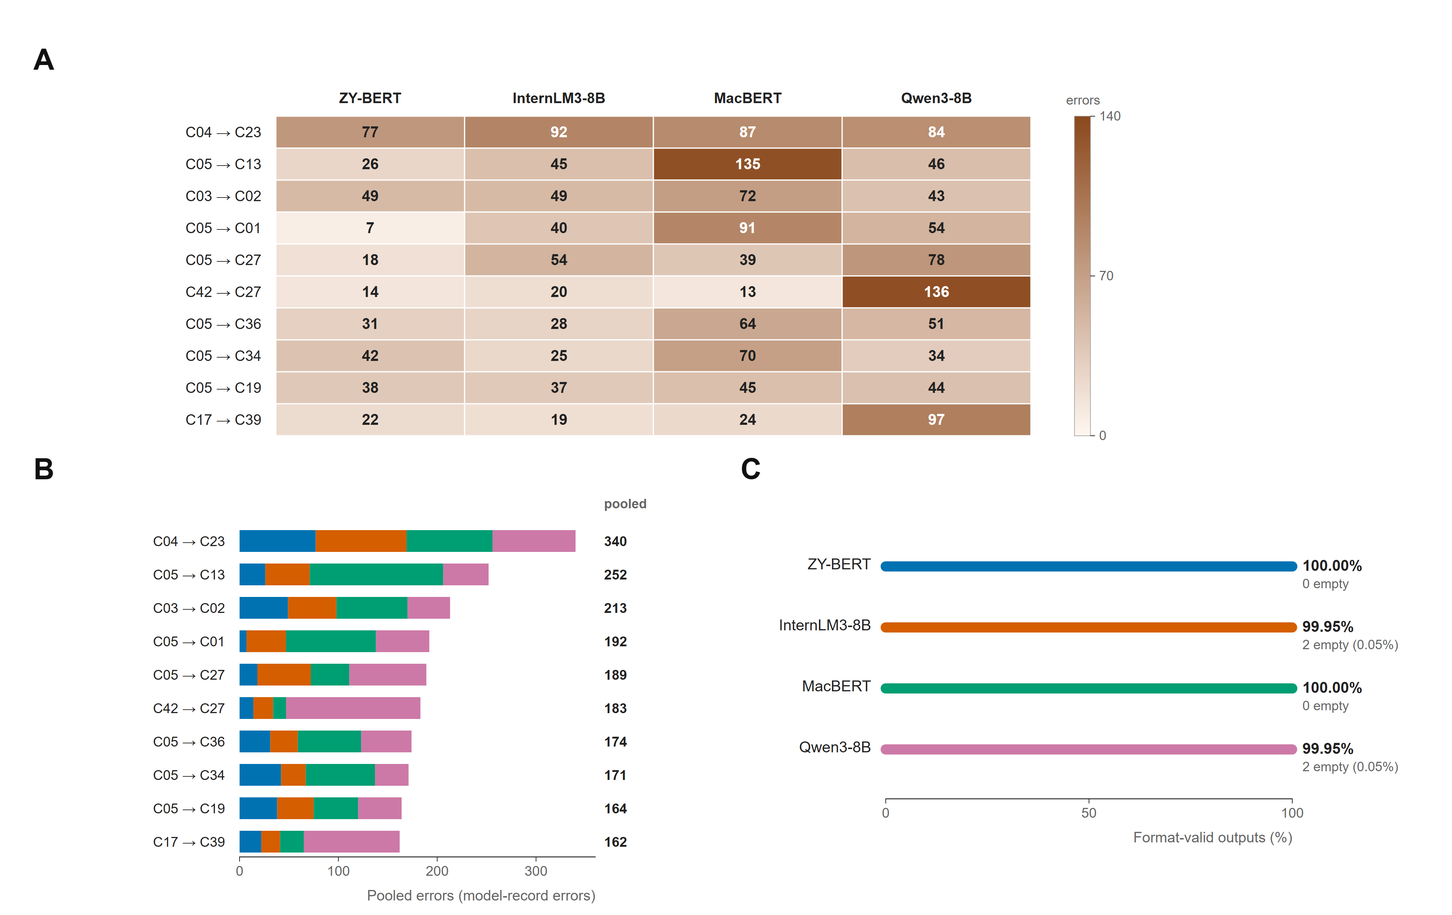
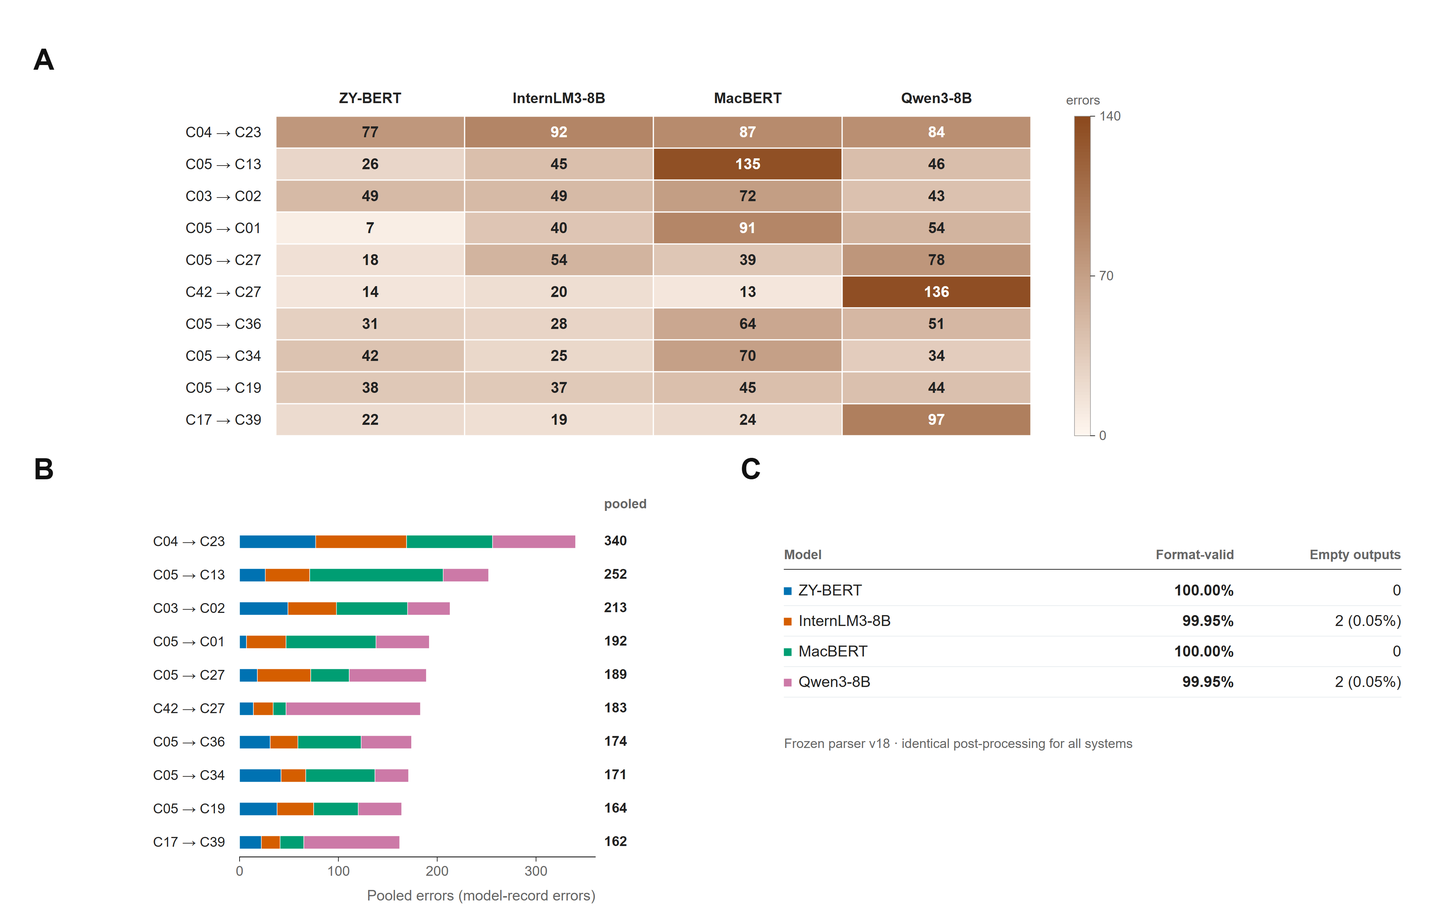
Figure 8: replace the flat validity bars with a per-system listing
Panel C now lists format-valid percentage and empty outputs for the four
systems as a plain ruled table, and panel B uses thinner stacked bars.
This removes the dashboard-like progress bars without changing any value.

diff --git a/figures_py/Figure8.html b/figures_py/Figure8.html
@@ -205,65 +205,65 @@
 <text x="1492" y="144" font-family="Arial, Helvetica, sans-serif" font-size="18" font-weight="400" fill="#666666" text-anchor="middle">errors</text>
 <text x="46" y="660" font-family="Arial, Helvetica, sans-serif" font-size="40" font-weight="700" fill="#111111" text-anchor="start">B</text>
 <text x="310" y="752" font-family="Arial, Helvetica, sans-serif" font-size="19" font-weight="400" fill="#222222" text-anchor="end">C04 → C23</text>
-<rect x="330" y="730" width="104.80555555555556" height="30" rx="0" fill="#0072B2" stroke="none" stroke-width="0" opacity="1"/>
-<rect x="434.80555555555554" y="730" width="125.22222222222223" height="30" rx="0" fill="#D55E00" stroke="none" stroke-width="0" opacity="1"/>
-<rect x="560.0277777777778" y="730" width="118.41666666666667" height="30" rx="0" fill="#009E73" stroke="none" stroke-width="0" opacity="1"/>
-<rect x="678.4444444444445" y="730" width="114.33333333333333" height="30" rx="0" fill="#CC79A7" stroke="none" stroke-width="0" opacity="1"/>
-<text x="832" y="752" font-family="Arial, Helvetica, sans-serif" font-size="19" font-weight="700" fill="#222222" text-anchor="start">340</text>
+<rect x="330" y="737" width="104.80555555555556" height="18" rx="0" fill="#0072B2" stroke="#FFFFFF" stroke-width="0.7" opacity="1"/>
+<rect x="434.80555555555554" y="737" width="125.22222222222223" height="18" rx="0" fill="#D55E00" stroke="#FFFFFF" stroke-width="0.7" opacity="1"/>
+<rect x="560.0277777777778" y="737" width="118.41666666666667" height="18" rx="0" fill="#009E73" stroke="#FFFFFF" stroke-width="0.7" opacity="1"/>
+<rect x="678.4444444444445" y="737" width="114.33333333333333" height="18" rx="0" fill="#CC79A7" stroke="#FFFFFF" stroke-width="0.7" opacity="1"/>
+<text x="832" y="751" font-family="Arial, Helvetica, sans-serif" font-size="19" font-weight="700" fill="#222222" text-anchor="start">340</text>
 <text x="310" y="798" font-family="Arial, Helvetica, sans-serif" font-size="19" font-weight="400" fill="#222222" text-anchor="end">C05 → C13</text>
-<rect x="330" y="776" width="35.388888888888886" height="30" rx="0" fill="#0072B2" stroke="none" stroke-width="0" opacity="1"/>
-<rect x="365.3888888888889" y="776" width="61.25" height="30" rx="0" fill="#D55E00" stroke="none" stroke-width="0" opacity="1"/>
-<rect x="426.6388888888889" y="776" width="183.75" height="30" rx="0" fill="#009E73" stroke="none" stroke-width="0" opacity="1"/>
-<rect x="610.3888888888889" y="776" width="62.611111111111114" height="30" rx="0" fill="#CC79A7" stroke="none" stroke-width="0" opacity="1"/>
-<text x="832" y="798" font-family="Arial, Helvetica, sans-serif" font-size="19" font-weight="700" fill="#222222" text-anchor="start">252</text>
+<rect x="330" y="783" width="35.388888888888886" height="18" rx="0" fill="#0072B2" stroke="#FFFFFF" stroke-width="0.7" opacity="1"/>
+<rect x="365.3888888888889" y="783" width="61.25" height="18" rx="0" fill="#D55E00" stroke="#FFFFFF" stroke-width="0.7" opacity="1"/>
+<rect x="426.6388888888889" y="783" width="183.75" height="18" rx="0" fill="#009E73" stroke="#FFFFFF" stroke-width="0.7" opacity="1"/>
+<rect x="610.3888888888889" y="783" width="62.611111111111114" height="18" rx="0" fill="#CC79A7" stroke="#FFFFFF" stroke-width="0.7" opacity="1"/>
+<text x="832" y="797" font-family="Arial, Helvetica, sans-serif" font-size="19" font-weight="700" fill="#222222" text-anchor="start">252</text>
 <text x="310" y="844" font-family="Arial, Helvetica, sans-serif" font-size="19" font-weight="400" fill="#222222" text-anchor="end">C03 → C02</text>
-<rect x="330" y="822" width="66.69444444444444" height="30" rx="0" fill="#0072B2" stroke="none" stroke-width="0" opacity="1"/>
-<rect x="396.69444444444446" y="822" width="66.69444444444444" height="30" rx="0" fill="#D55E00" stroke="none" stroke-width="0" opacity="1"/>
-<rect x="463.3888888888889" y="822" width="98.0" height="30" rx="0" fill="#009E73" stroke="none" stroke-width="0" opacity="1"/>
-<rect x="561.3888888888889" y="822" width="58.52777777777778" height="30" rx="0" fill="#CC79A7" stroke="none" stroke-width="0" opacity="1"/>
-<text x="832" y="844" font-family="Arial, Helvetica, sans-serif" font-size="19" font-weight="700" fill="#222222" text-anchor="start">213</text>
+<rect x="330" y="829" width="66.69444444444444" height="18" rx="0" fill="#0072B2" stroke="#FFFFFF" stroke-width="0.7" opacity="1"/>
+<rect x="396.69444444444446" y="829" width="66.69444444444444" height="18" rx="0" fill="#D55E00" stroke="#FFFFFF" stroke-width="0.7" opacity="1"/>
+<rect x="463.3888888888889" y="829" width="98.0" height="18" rx="0" fill="#009E73" stroke="#FFFFFF" stroke-width="0.7" opacity="1"/>
+<rect x="561.3888888888889" y="829" width="58.52777777777778" height="18" rx="0" fill="#CC79A7" stroke="#FFFFFF" stroke-width="0.7" opacity="1"/>
+<text x="832" y="843" font-family="Arial, Helvetica, sans-serif" font-size="19" font-weight="700" fill="#222222" text-anchor="start">213</text>
 <text x="310" y="890" font-family="Arial, Helvetica, sans-serif" font-size="19" font-weight="400" fill="#222222" text-anchor="end">C05 → C01</text>
-<rect x="330" y="868" width="9.527777777777779" height="30" rx="0" fill="#0072B2" stroke="none" stroke-width="0" opacity="1"/>
-<rect x="339.52777777777777" y="868" width="54.44444444444444" height="30" rx="0" fill="#D55E00" stroke="none" stroke-width="0" opacity="1"/>
-<rect x="393.97222222222223" y="868" width="123.86111111111111" height="30" rx="0" fill="#009E73" stroke="none" stroke-width="0" opacity="1"/>
-<rect x="517.8333333333334" y="868" width="73.5" height="30" rx="0" fill="#CC79A7" stroke="none" stroke-width="0" opacity="1"/>
-<text x="832" y="890" font-family="Arial, Helvetica, sans-serif" font-size="19" font-weight="700" fill="#222222" text-anchor="start">192</text>
+<rect x="330" y="875" width="9.527777777777779" height="18" rx="0" fill="#0072B2" stroke="#FFFFFF" stroke-width="0.7" opacity="1"/>
+<rect x="339.52777777777777" y="875" width="54.44444444444444" height="18" rx="0" fill="#D55E00" stroke="#FFFFFF" stroke-width="0.7" opacity="1"/>
+<rect x="393.97222222222223" y="875" width="123.86111111111111" height="18" rx="0" fill="#009E73" stroke="#FFFFFF" stroke-width="0.7" opacity="1"/>
+<rect x="517.8333333333334" y="875" width="73.5" height="18" rx="0" fill="#CC79A7" stroke="#FFFFFF" stroke-width="0.7" opacity="1"/>
+<text x="832" y="889" font-family="Arial, Helvetica, sans-serif" font-size="19" font-weight="700" fill="#222222" text-anchor="start">192</text>
 <text x="310" y="936" font-family="Arial, Helvetica, sans-serif" font-size="19" font-weight="400" fill="#222222" text-anchor="end">C05 → C27</text>
-<rect x="330" y="914" width="24.5" height="30" rx="0" fill="#0072B2" stroke="none" stroke-width="0" opacity="1"/>
-<rect x="354.5" y="914" width="73.5" height="30" rx="0" fill="#D55E00" stroke="none" stroke-width="0" opacity="1"/>
-<rect x="428.0" y="914" width="53.083333333333336" height="30" rx="0" fill="#009E73" stroke="none" stroke-width="0" opacity="1"/>
-<rect x="481.0833333333333" y="914" width="106.16666666666667" height="30" rx="0" fill="#CC79A7" stroke="none" stroke-width="0" opacity="1"/>
-<text x="832" y="936" font-family="Arial, Helvetica, sans-serif" font-size="19" font-weight="700" fill="#222222" text-anchor="start">189</text>
+<rect x="330" y="921" width="24.5" height="18" rx="0" fill="#0072B2" stroke="#FFFFFF" stroke-width="0.7" opacity="1"/>
+<rect x="354.5" y="921" width="73.5" height="18" rx="0" fill="#D55E00" stroke="#FFFFFF" stroke-width="0.7" opacity="1"/>
+<rect x="428.0" y="921" width="53.083333333333336" height="18" rx="0" fill="#009E73" stroke="#FFFFFF" stroke-width="0.7" opacity="1"/>
+<rect x="481.0833333333333" y="921" width="106.16666666666667" height="18" rx="0" fill="#CC79A7" stroke="#FFFFFF" stroke-width="0.7" opacity="1"/>
+<text x="832" y="935" font-family="Arial, Helvetica, sans-serif" font-size="19" font-weight="700" fill="#222222" text-anchor="start">189</text>
 <text x="310" y="982" font-family="Arial, Helvetica, sans-serif" font-size="19" font-weight="400" fill="#222222" text-anchor="end">C42 → C27</text>
-<rect x="330" y="960" width="19.055555555555557" height="30" rx="0" fill="#0072B2" stroke="none" stroke-width="0" opacity="1"/>
-<rect x="349.05555555555554" y="960" width="27.22222222222222" height="30" rx="0" fill="#D55E00" stroke="none" stroke-width="0" opacity="1"/>
-<rect x="376.27777777777777" y="960" width="17.694444444444443" height="30" rx="0" fill="#009E73" stroke="none" stroke-width="0" opacity="1"/>
-<rect x="393.97222222222223" y="960" width="185.11111111111111" height="30" rx="0" fill="#CC79A7" stroke="none" stroke-width="0" opacity="1"/>
-<text x="832" y="982" font-family="Arial, Helvetica, sans-serif" font-size="19" font-weight="700" fill="#222222" text-anchor="start">183</text>
+<rect x="330" y="967" width="19.055555555555557" height="18" rx="0" fill="#0072B2" stroke="#FFFFFF" stroke-width="0.7" opacity="1"/>
+<rect x="349.05555555555554" y="967" width="27.22222222222222" height="18" rx="0" fill="#D55E00" stroke="#FFFFFF" stroke-width="0.7" opacity="1"/>
+<rect x="376.27777777777777" y="967" width="17.694444444444443" height="18" rx="0" fill="#009E73" stroke="#FFFFFF" stroke-width="0.7" opacity="1"/>
+<rect x="393.97222222222223" y="967" width="185.11111111111111" height="18" rx="0" fill="#CC79A7" stroke="#FFFFFF" stroke-width="0.7" opacity="1"/>
+<text x="832" y="981" font-family="Arial, Helvetica, sans-serif" font-size="19" font-weight="700" fill="#222222" text-anchor="start">183</text>
 <text x="310" y="1028" font-family="Arial, Helvetica, sans-serif" font-size="19" font-weight="400" fill="#222222" text-anchor="end">C05 → C36</text>
-<rect x="330" y="1006" width="42.19444444444444" height="30" rx="0" fill="#0072B2" stroke="none" stroke-width="0" opacity="1"/>
-<rect x="372.19444444444446" y="1006" width="38.111111111111114" height="30" rx="0" fill="#D55E00" stroke="none" stroke-width="0" opacity="1"/>
-<rect x="410.30555555555554" y="1006" width="87.11111111111111" height="30" rx="0" fill="#009E73" stroke="none" stroke-width="0" opacity="1"/>
-<rect x="497.41666666666663" y="1006" width="69.41666666666667" height="30" rx="0" fill="#CC79A7" stroke="none" stroke-width="0" opacity="1"/>
-<text x="832" y="1028" font-family="Arial, Helvetica, sans-serif" font-size="19" font-weight="700" fill="#222222" text-anchor="start">174</text>
+<rect x="330" y="1013" width="42.19444444444444" height="18" rx="0" fill="#0072B2" stroke="#FFFFFF" stroke-width="0.7" opacity="1"/>
+<rect x="372.19444444444446" y="1013" width="38.111111111111114" height="18" rx="0" fill="#D55E00" stroke="#FFFFFF" stroke-width="0.7" opacity="1"/>
+<rect x="410.30555555555554" y="1013" width="87.11111111111111" height="18" rx="0" fill="#009E73" stroke="#FFFFFF" stroke-width="0.7" opacity="1"/>
+<rect x="497.41666666666663" y="1013" width="69.41666666666667" height="18" rx="0" fill="#CC79A7" stroke="#FFFFFF" stroke-width="0.7" opacity="1"/>
+<text x="832" y="1027" font-family="Arial, Helvetica, sans-serif" font-size="19" font-weight="700" fill="#222222" text-anchor="start">174</text>
 <text x="310" y="1074" font-family="Arial, Helvetica, sans-serif" font-size="19" font-weight="400" fill="#222222" text-anchor="end">C05 → C34</text>
-<rect x="330" y="1052" width="57.166666666666664" height="30" rx="0" fill="#0072B2" stroke="none" stroke-width="0" opacity="1"/>
-<rect x="387.1666666666667" y="1052" width="34.02777777777778" height="30" rx="0" fill="#D55E00" stroke="none" stroke-width="0" opacity="1"/>
-<rect x="421.19444444444446" y="1052" width="95.27777777777777" height="30" rx="0" fill="#009E73" stroke="none" stroke-width="0" opacity="1"/>
-<rect x="516.4722222222222" y="1052" width="46.27777777777778" height="30" rx="0" fill="#CC79A7" stroke="none" stroke-width="0" opacity="1"/>
-<text x="832" y="1074" font-family="Arial, Helvetica, sans-serif" font-size="19" font-weight="700" fill="#222222" text-anchor="start">171</text>
+<rect x="330" y="1059" width="57.166666666666664" height="18" rx="0" fill="#0072B2" stroke="#FFFFFF" stroke-width="0.7" opacity="1"/>
+<rect x="387.1666666666667" y="1059" width="34.02777777777778" height="18" rx="0" fill="#D55E00" stroke="#FFFFFF" stroke-width="0.7" opacity="1"/>
+<rect x="421.19444444444446" y="1059" width="95.27777777777777" height="18" rx="0" fill="#009E73" stroke="#FFFFFF" stroke-width="0.7" opacity="1"/>
+<rect x="516.4722222222222" y="1059" width="46.27777777777778" height="18" rx="0" fill="#CC79A7" stroke="#FFFFFF" stroke-width="0.7" opacity="1"/>
+<text x="832" y="1073" font-family="Arial, Helvetica, sans-serif" font-size="19" font-weight="700" fill="#222222" text-anchor="start">171</text>
 <text x="310" y="1120" font-family="Arial, Helvetica, sans-serif" font-size="19" font-weight="400" fill="#222222" text-anchor="end">C05 → C19</text>
-<rect x="330" y="1098" width="51.72222222222222" height="30" rx="0" fill="#0072B2" stroke="none" stroke-width="0" opacity="1"/>
-<rect x="381.72222222222223" y="1098" width="50.361111111111114" height="30" rx="0" fill="#D55E00" stroke="none" stroke-width="0" opacity="1"/>
-<rect x="432.08333333333337" y="1098" width="61.25" height="30" rx="0" fill="#009E73" stroke="none" stroke-width="0" opacity="1"/>
-<rect x="493.33333333333337" y="1098" width="59.888888888888886" height="30" rx="0" fill="#CC79A7" stroke="none" stroke-width="0" opacity="1"/>
-<text x="832" y="1120" font-family="Arial, Helvetica, sans-serif" font-size="19" font-weight="700" fill="#222222" text-anchor="start">164</text>
+<rect x="330" y="1105" width="51.72222222222222" height="18" rx="0" fill="#0072B2" stroke="#FFFFFF" stroke-width="0.7" opacity="1"/>
+<rect x="381.72222222222223" y="1105" width="50.361111111111114" height="18" rx="0" fill="#D55E00" stroke="#FFFFFF" stroke-width="0.7" opacity="1"/>
+<rect x="432.08333333333337" y="1105" width="61.25" height="18" rx="0" fill="#009E73" stroke="#FFFFFF" stroke-width="0.7" opacity="1"/>
+<rect x="493.33333333333337" y="1105" width="59.888888888888886" height="18" rx="0" fill="#CC79A7" stroke="#FFFFFF" stroke-width="0.7" opacity="1"/>
+<text x="832" y="1119" font-family="Arial, Helvetica, sans-serif" font-size="19" font-weight="700" fill="#222222" text-anchor="start">164</text>
 <text x="310" y="1166" font-family="Arial, Helvetica, sans-serif" font-size="19" font-weight="400" fill="#222222" text-anchor="end">C17 → C39</text>
-<rect x="330" y="1144" width="29.944444444444443" height="30" rx="0" fill="#0072B2" stroke="none" stroke-width="0" opacity="1"/>
-<rect x="359.94444444444446" y="1144" width="25.86111111111111" height="30" rx="0" fill="#D55E00" stroke="none" stroke-width="0" opacity="1"/>
-<rect x="385.80555555555554" y="1144" width="32.666666666666664" height="30" rx="0" fill="#009E73" stroke="none" stroke-width="0" opacity="1"/>
-<rect x="418.47222222222223" y="1144" width="132.02777777777777" height="30" rx="0" fill="#CC79A7" stroke="none" stroke-width="0" opacity="1"/>
-<text x="832" y="1166" font-family="Arial, Helvetica, sans-serif" font-size="19" font-weight="700" fill="#222222" text-anchor="start">162</text>
+<rect x="330" y="1151" width="29.944444444444443" height="18" rx="0" fill="#0072B2" stroke="#FFFFFF" stroke-width="0.7" opacity="1"/>
+<rect x="359.94444444444446" y="1151" width="25.86111111111111" height="18" rx="0" fill="#D55E00" stroke="#FFFFFF" stroke-width="0.7" opacity="1"/>
+<rect x="385.80555555555554" y="1151" width="32.666666666666664" height="18" rx="0" fill="#009E73" stroke="#FFFFFF" stroke-width="0.7" opacity="1"/>
+<rect x="418.47222222222223" y="1151" width="132.02777777777777" height="18" rx="0" fill="#CC79A7" stroke="#FFFFFF" stroke-width="0.7" opacity="1"/>
+<text x="832" y="1165" font-family="Arial, Helvetica, sans-serif" font-size="19" font-weight="700" fill="#222222" text-anchor="start">162</text>
 <text x="832" y="700" font-family="Arial, Helvetica, sans-serif" font-size="18" font-weight="600" fill="#666666" text-anchor="start">pooled</text>
 <line x1="330" y1="1180" x2="820" y2="1180" stroke="#222222" stroke-width="1.2" opacity="1" stroke-linecap="round"/>
 <line x1="330.0" y1="1180" x2="330.0" y2="1186" stroke="#222222" stroke-width="1" opacity="1" stroke-linecap="round"/>
@@ -276,28 +276,29 @@
 <text x="738.3333333333334" y="1206" font-family="Arial, Helvetica, sans-serif" font-size="19" font-weight="400" fill="#666666" text-anchor="middle">300</text>
 <text x="820" y="1240" font-family="Arial, Helvetica, sans-serif" font-size="20" font-weight="400" fill="#666666" text-anchor="end">Pooled errors (model-record errors)</text>
 <text x="1020" y="660" font-family="Arial, Helvetica, sans-serif" font-size="40" font-weight="700" fill="#111111" text-anchor="start">C</text>
-<text x="1200" y="784" font-family="Arial, Helvetica, sans-serif" font-size="21" font-weight="400" fill="#222222" text-anchor="end">ZY-BERT</text>
-<line x1="1220" y1="780" x2="1780.0" y2="780" stroke="#0072B2" stroke-width="14" opacity="1" stroke-linecap="round"/>
-<text x="1794" y="786" font-family="Arial, Helvetica, sans-serif" font-size="21" font-weight="700" fill="#222222" text-anchor="start">100.00%</text>
-<text x="1794" y="810" font-family="Arial, Helvetica, sans-serif" font-size="18" font-weight="400" fill="#666666" text-anchor="start">0 empty</text>
-<text x="1200" y="868" font-family="Arial, Helvetica, sans-serif" font-size="21" font-weight="400" fill="#222222" text-anchor="end">InternLM3-8B</text>
-<line x1="1220" y1="864" x2="1779.72" y2="864" stroke="#D55E00" stroke-width="14" opacity="1" stroke-linecap="round"/>
-<text x="1794" y="870" font-family="Arial, Helvetica, sans-serif" font-size="21" font-weight="700" fill="#222222" text-anchor="start">99.95%</text>
-<text x="1794" y="894" font-family="Arial, Helvetica, sans-serif" font-size="18" font-weight="400" fill="#666666" text-anchor="start">2 empty (0.05%)</text>
-<text x="1200" y="952" font-family="Arial, Helvetica, sans-serif" font-size="21" font-weight="400" fill="#222222" text-anchor="end">MacBERT</text>
-<line x1="1220" y1="948" x2="1780.0" y2="948" stroke="#009E73" stroke-width="14" opacity="1" stroke-linecap="round"/>
-<text x="1794" y="954" font-family="Arial, Helvetica, sans-serif" font-size="21" font-weight="700" fill="#222222" text-anchor="start">100.00%</text>
-<text x="1794" y="978" font-family="Arial, Helvetica, sans-serif" font-size="18" font-weight="400" fill="#666666" text-anchor="start">0 empty</text>
-<text x="1200" y="1036" font-family="Arial, Helvetica, sans-serif" font-size="21" font-weight="400" fill="#222222" text-anchor="end">Qwen3-8B</text>
-<line x1="1220" y1="1032" x2="1779.72" y2="1032" stroke="#CC79A7" stroke-width="14" opacity="1" stroke-linecap="round"/>
-<text x="1794" y="1038" font-family="Arial, Helvetica, sans-serif" font-size="21" font-weight="700" fill="#222222" text-anchor="start">99.95%</text>
-<text x="1794" y="1062" font-family="Arial, Helvetica, sans-serif" font-size="18" font-weight="400" fill="#666666" text-anchor="start">2 empty (0.05%)</text>
-<line x1="1220" y1="1100" x2="1780" y2="1100" stroke="#222222" stroke-width="1.2" opacity="1" stroke-linecap="round"/>
-<line x1="1220.0" y1="1100" x2="1220.0" y2="1106" stroke="#222222" stroke-width="1" opacity="1" stroke-linecap="round"/>
-<text x="1220.0" y="1126" font-family="Arial, Helvetica, sans-serif" font-size="19" font-weight="400" fill="#666666" text-anchor="middle">0</text>
-<line x1="1500.0" y1="1100" x2="1500.0" y2="1106" stroke="#222222" stroke-width="1" opacity="1" stroke-linecap="round"/>
-<text x="1500.0" y="1126" font-family="Arial, Helvetica, sans-serif" font-size="19" font-weight="400" fill="#666666" text-anchor="middle">50</text>
-<line x1="1780.0" y1="1100" x2="1780.0" y2="1106" stroke="#222222" stroke-width="1" opacity="1" stroke-linecap="round"/>
-<text x="1780.0" y="1126" font-family="Arial, Helvetica, sans-serif" font-size="19" font-weight="400" fill="#666666" text-anchor="middle">100</text>
-<text x="1780" y="1160" font-family="Arial, Helvetica, sans-serif" font-size="20" font-weight="400" fill="#666666" text-anchor="end">Format-valid outputs (%)</text>
+<text x="1080" y="770" font-family="Arial, Helvetica, sans-serif" font-size="18" font-weight="600" fill="#666666" text-anchor="start">Model</text>
+<text x="1700" y="770" font-family="Arial, Helvetica, sans-serif" font-size="18" font-weight="600" fill="#666666" text-anchor="end">Format-valid</text>
+<text x="1930" y="770" font-family="Arial, Helvetica, sans-serif" font-size="18" font-weight="600" fill="#666666" text-anchor="end">Empty outputs</text>
+<line x1="1080" y1="784" x2="1930" y2="784" stroke="#222222" stroke-width="1" opacity="1" stroke-linecap="round"/>
+<rect x="1080" y="809" width="10" height="10" rx="0" fill="#0072B2" stroke="#0072B2" stroke-width="0.6" opacity="1"/>
+<text x="1100" y="820" font-family="Arial, Helvetica, sans-serif" font-size="21" font-weight="400" fill="#222222" text-anchor="start">ZY-BERT</text>
+<text x="1700" y="820" font-family="Arial, Helvetica, sans-serif" font-size="21" font-weight="700" fill="#222222" text-anchor="end">100.00%</text>
+<text x="1930" y="820" font-family="Arial, Helvetica, sans-serif" font-size="21" font-weight="400" fill="#222222" text-anchor="end">0</text>
+<line x1="1080" y1="834" x2="1930" y2="834" stroke="#E2E7EB" stroke-width="0.8" opacity="1" stroke-linecap="round"/>
+<rect x="1080" y="851" width="10" height="10" rx="0" fill="#D55E00" stroke="#D55E00" stroke-width="0.6" opacity="1"/>
+<text x="1100" y="862" font-family="Arial, Helvetica, sans-serif" font-size="21" font-weight="400" fill="#222222" text-anchor="start">InternLM3-8B</text>
+<text x="1700" y="862" font-family="Arial, Helvetica, sans-serif" font-size="21" font-weight="700" fill="#222222" text-anchor="end">99.95%</text>
+<text x="1930" y="862" font-family="Arial, Helvetica, sans-serif" font-size="21" font-weight="400" fill="#222222" text-anchor="end">2 (0.05%)</text>
+<line x1="1080" y1="876" x2="1930" y2="876" stroke="#E2E7EB" stroke-width="0.8" opacity="1" stroke-linecap="round"/>
+<rect x="1080" y="893" width="10" height="10" rx="0" fill="#009E73" stroke="#009E73" stroke-width="0.6" opacity="1"/>
+<text x="1100" y="904" font-family="Arial, Helvetica, sans-serif" font-size="21" font-weight="400" fill="#222222" text-anchor="start">MacBERT</text>
+<text x="1700" y="904" font-family="Arial, Helvetica, sans-serif" font-size="21" font-weight="700" fill="#222222" text-anchor="end">100.00%</text>
+<text x="1930" y="904" font-family="Arial, Helvetica, sans-serif" font-size="21" font-weight="400" fill="#222222" text-anchor="end">0</text>
+<line x1="1080" y1="918" x2="1930" y2="918" stroke="#E2E7EB" stroke-width="0.8" opacity="1" stroke-linecap="round"/>
+<rect x="1080" y="935" width="10" height="10" rx="0" fill="#CC79A7" stroke="#CC79A7" stroke-width="0.6" opacity="1"/>
+<text x="1100" y="946" font-family="Arial, Helvetica, sans-serif" font-size="21" font-weight="400" fill="#222222" text-anchor="start">Qwen3-8B</text>
+<text x="1700" y="946" font-family="Arial, Helvetica, sans-serif" font-size="21" font-weight="700" fill="#222222" text-anchor="end">99.95%</text>
+<text x="1930" y="946" font-family="Arial, Helvetica, sans-serif" font-size="21" font-weight="400" fill="#222222" text-anchor="end">2 (0.05%)</text>
+<line x1="1080" y1="960" x2="1930" y2="960" stroke="#E2E7EB" stroke-width="0.8" opacity="1" stroke-linecap="round"/>
+<text x="1080" y="1030" font-family="Arial, Helvetica, sans-serif" font-size="18" font-weight="400" fill="#666666" text-anchor="start">Frozen parser v18 · identical post-processing for all systems</text>
 </svg></body></html>

diff --git a/figures_py/build_all.py b/figures_py/build_all.py
@@ -608,9 +608,9 @@ def fig8():
         x = SX0
         for v, col in zip(vals, (BLUE, ORANGE, GREEN, MAGENTA)):
             w = (SX1 - SX0) * v / 360.0
-            R(x, yy, max(w, 0.6), 30, fill=col, stroke="none", sw=0)
+            R(x, yy + 7, max(w, 0.6), 18, fill=col, stroke="#FFFFFF", sw=0.7)
             x += w
-        T(SX1 + 12, yy + 22, str(tot), 19, INK, 700)
+        T(SX1 + 12, yy + 21, str(tot), 19, INK, 700)
     T(SX1 + 12, 700, "pooled", 18, MUT, 600)
     L(SX0, 1180, SX1, 1180, stroke=INK, sw=1.2)
     for v in (0, 100, 200, 300):
@@ -619,23 +619,23 @@ def fig8():
     T(SX1, 1240, "Pooled errors (model-record errors)", 20, MUT, 400, "end")
 
     panel(1020, 660, "C")
-    VX0, VX1 = 1220, 1780
-    def vx(v): return VX0 + v / 100 * (VX1 - VX0)
     V = fd.validity()
     vals = [(nm, V[nm][0], V[nm][1], col) for nm, col in
             (("ZY-BERT", BLUE), ("InternLM3-8B", ORANGE),
              ("MacBERT", GREEN), ("Qwen3-8B", MAGENTA))]
+    TX = 1080
+    T(TX, 770, "Model", 18, MUT, 600)
+    T(1700, 770, "Format-valid", 18, MUT, 600, "end")
+    T(1930, 770, "Empty outputs", 18, MUT, 600, "end")
+    L(TX, 784, 1930, 784, stroke=INK, sw=1)
     for i, (nm, v, empty, col) in enumerate(vals):
-        yy = 760 + i * 84
-        T(1200, yy + 24, nm, 21, INK, 400, "end")
-        L(VX0, yy + 20, VX0 + (v / 100) * (VX1 - VX0), yy + 20, stroke=col, sw=14)
-        T(VX1 + 14, yy + 26, f"{v:.2f}%", 21, INK, 700)
-        T(VX1 + 14, yy + 50, ("2 empty (0.05%)" if empty else "0 empty"), 18, MUT, 400)
-    L(VX0, 1100, VX1, 1100, stroke=INK, sw=1.2)
-    for v in (0, 50, 100):
-        L(vx(v), 1100, vx(v), 1106, stroke=INK, sw=1)
-        T(vx(v), 1126, str(v), 19, MUT, 400, "middle")
-    T(VX1, 1160, "Format-valid outputs (%)", 20, MUT, 400, "end")
+        yy = 820 + i * 42
+        R(TX, yy - 11, 10, 10, fill=col, stroke=col, sw=0.6)
+        T(TX + 20, yy, nm, 21, INK, 400)
+        T(1700, yy, f"{v:.2f}%", 21, INK, 700, "end")
+        T(1930, yy, ("2 (0.05%)" if empty else "0"), 21, INK, 400, "end")
+        L(TX, yy + 14, 1930, yy + 14, stroke="#E2E7EB", sw=0.8)
+    T(TX, 1030, "Frozen parser v18 \u00b7 identical post-processing for all systems", 18, MUT, 400)
     save()
 
 
